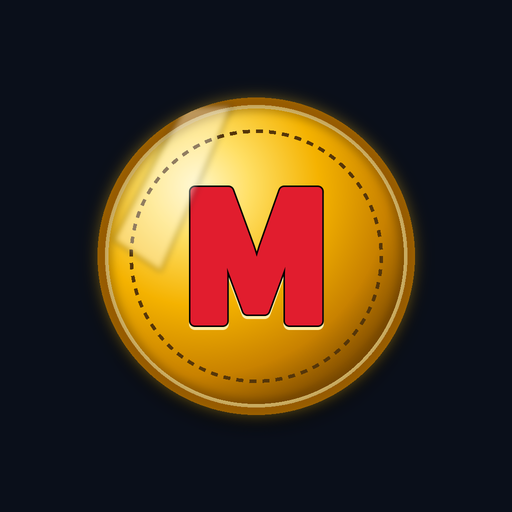
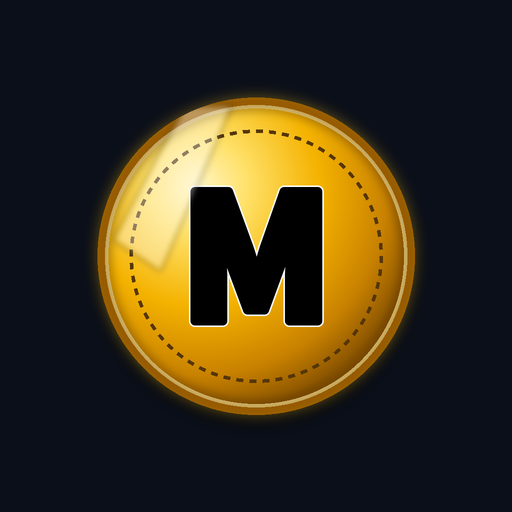
로고·아이콘 글자: 검정 + 가는 흰 테두리
Claude-Session: https://claude.ai/code/session_01BWXrJ9VGSMWgAyPBokpwys

Changed region(s): [[0.3438, 0.3438, 0.6562, 0.6562]]

diff --git a/index.html b/index.html
@@ -9,8 +9,8 @@
 <meta name="apple-mobile-web-app-title" content="ㅇㅇㅇ주식딸랑이">
 <meta name="apple-mobile-web-app-status-bar-style" content="black-translucent">
 <link rel="manifest" href="manifest.webmanifest">
-<link rel="apple-touch-icon" href="icons/icon-180.png?v=3">
-<link rel="icon" href="icons/icon-192.png?v=3">
+<link rel="apple-touch-icon" href="icons/icon-180.png?v=4">
+<link rel="icon" href="icons/icon-192.png?v=4">
 <title>주식딸랑이</title>
 <style>
 :root{--bg:#0b1220;--card:#121b2e;--tile:#0e1626;--line:#1f2b44;--tx:#e8edf7;--mut:#8b98b3;--up:#ff5a62;--dn:#4d8dff;--acc:#2dd4a7}
@@ -21,11 +21,11 @@ html,body{margin:0;background:var(--bg);color:var(--tx);font-family:-apple-syste
 a{color:inherit;text-decoration:none}
 header{position:sticky;top:0;z-index:5;background:rgba(11,18,32,.94);backdrop-filter:blur(8px);border-bottom:1px solid var(--line)}
 .hd{max-width:520px;margin:0 auto;padding:calc(10px + env(safe-area-inset-top)) 14px 10px;display:flex;align-items:center;gap:10px}
-.logo{position:relative;width:48px;height:48px;border-radius:50%;flex:none;display:grid;place-items:center;overflow:hidden;font-size:27px;line-height:1;color:#e11d2e;-webkit-text-stroke:.7px #000;paint-order:stroke fill;font-family:'Jua','BM JUA','NanumSquareRound','Nanum Square Round','Noto Sans KR','Apple SD Gothic Neo','Malgun Gothic',sans-serif;font-weight:400;
+.logo{position:relative;width:48px;height:48px;border-radius:50%;flex:none;display:grid;place-items:center;overflow:hidden;font-size:27px;line-height:1;color:#000;-webkit-text-stroke:.7px #fff;paint-order:stroke fill;font-family:'Jua','BM JUA','NanumSquareRound','Nanum Square Round','Noto Sans KR','Apple SD Gothic Neo','Malgun Gothic',sans-serif;font-weight:400;
 background:radial-gradient(circle at 32% 26%,#fff6c2 0%,#ffe066 22%,#f5b301 52%,#c98200 82%,#8a5400 100%);
 border:2px solid #ffd54a;
 box-shadow:0 0 0 2px #b87400,0 0 0 3px #ffe58a,0 4px 8px rgba(0,0,0,.45),0 0 14px rgba(255,200,40,.55),inset 0 -4px 7px rgba(120,60,0,.55),inset 0 3px 5px rgba(255,255,255,.75);
-text-shadow:0 1px 0 rgba(255,240,170,.9),0 2px 2px rgba(90,45,0,.35)}
+text-shadow:0 1px 2px rgba(90,45,0,.35)}
 .logo::before{content:'';position:absolute;inset:5px;border-radius:50%;border:1.5px dashed rgba(122,74,0,.55);box-shadow:inset 0 0 0 1px rgba(255,240,170,.6)}
 .logo::after{content:'';position:absolute;left:-30%;top:-60%;width:70%;height:200%;background:linear-gradient(100deg,transparent 30%,rgba(255,255,255,.85) 50%,transparent 70%);transform:rotate(25deg);animation:coin 3.8s ease-in-out infinite;pointer-events:none}
 @keyframes coin{0%,55%{left:-70%}100%{left:130%}}
